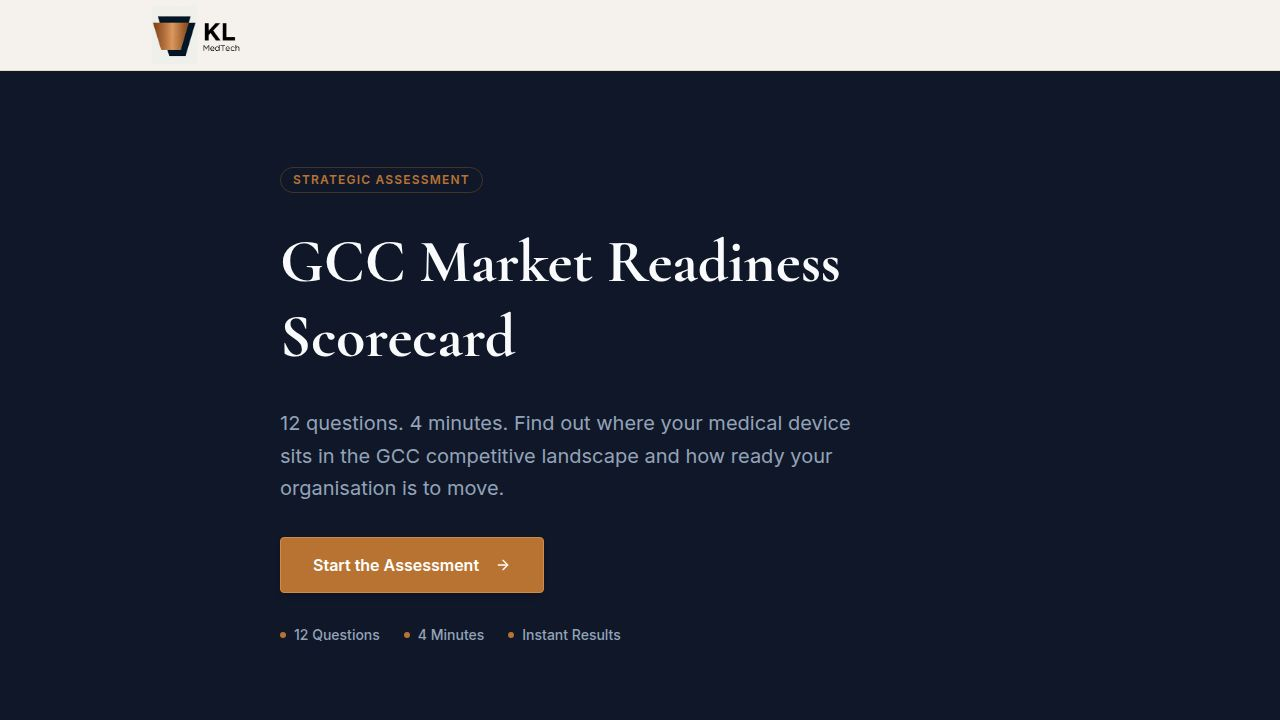
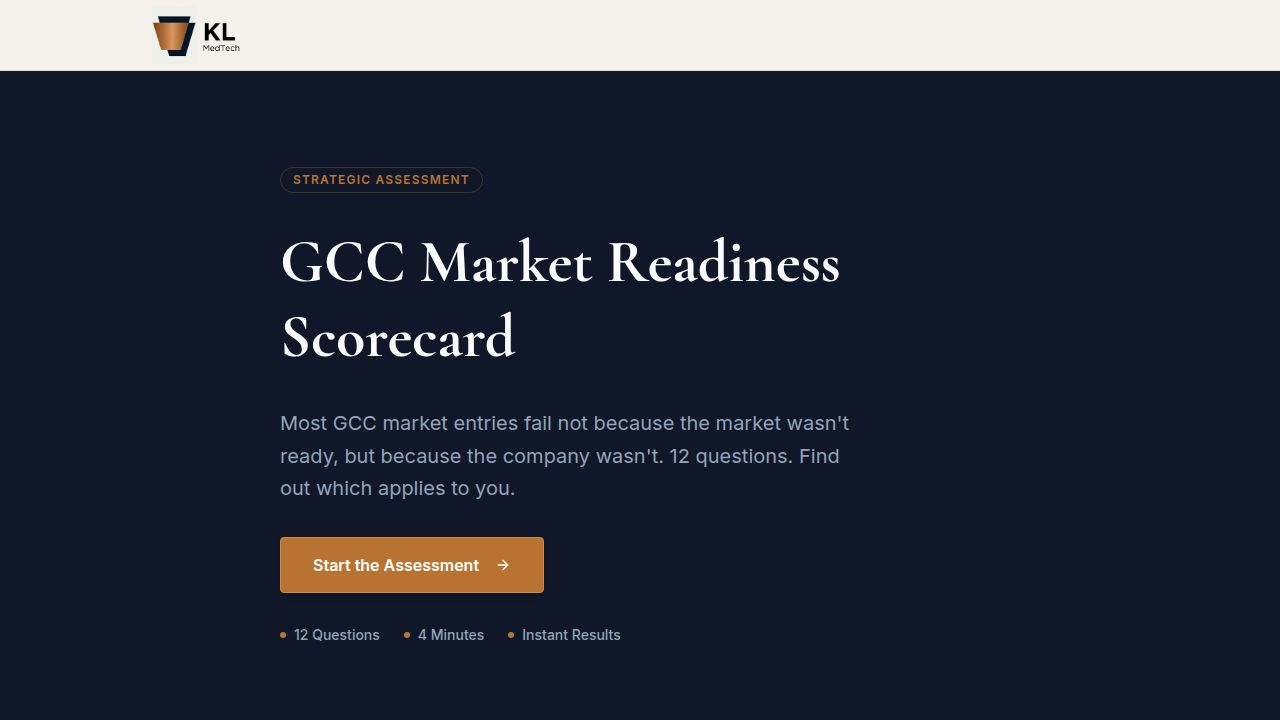
Update scorecard — gate-first flow, UTM tracking, Calendly pre-fill, fixed OG tags

Changed region(s): [[0.2188, 0.5806, 0.6875, 0.7028]]

diff --git a/scorecard/index.html b/scorecard/index.html
@@ -3,21 +3,25 @@
   <head>
     <meta charset="UTF-8" />
     <meta name="viewport" content="width=device-width, initial-scale=1.0, maximum-scale=1" />
-    <title>GCC Market Readiness Scorecard — KL MedTech</title>
+    <title>GCC Market Readiness Scorecard — KL Advisory</title>
     <meta name="description" content="12 questions. 4 minutes. Find out where your medical device sits in the GCC competitive landscape and how ready your organisation is to move." />
 
     <!-- Open Graph / LinkedIn -->
     <meta property="og:type" content="website" />
     <meta property="og:url" content="https://kl-advisory.ae/scorecard/" />
-    <meta property="og:title" content="GCC Market Readiness Scorecard — KL MedTech" />
+    <meta property="og:title" content="GCC Market Readiness Scorecard — KL Advisory" />
     <meta property="og:description" content="12 questions. 4 minutes. Find out where your medical device sits in the GCC competitive landscape and how ready your organisation is to move." />
     <meta property="og:image" content="https://kl-advisory.ae/scorecard/og-image.jpg" />
-    <meta property="og:site_name" content="KL MedTech" />
+    <meta property="og:image:width" content="1200" />
+    <meta property="og:image:height" content="630" />
+    <meta property="og:image:type" content="image/jpeg" />
+    <meta property="og:site_name" content="KL Advisory" />
 
     <!-- Twitter / X -->
-    <meta name="twitter:card" content="summary" />
-    <meta name="twitter:title" content="GCC Market Readiness Scorecard — KL MedTech" />
+    <meta name="twitter:card" content="summary_large_image" />
+    <meta name="twitter:title" content="GCC Market Readiness Scorecard — KL Advisory" />
     <meta name="twitter:description" content="12 questions. 4 minutes. Find out where your medical device sits in the GCC competitive landscape and how ready your organisation is to move." />
+    <meta name="twitter:image" content="https://kl-advisory.ae/scorecard/og-image.jpg" />
 
     <link rel="icon" type="image/x-icon" href="/scorecard/favicon.ico" />
     <script>
@@ -36,7 +40,7 @@
     <link rel="preconnect" href="https://fonts.googleapis.com">
     <link rel="preconnect" href="https://fonts.gstatic.com" crossorigin>
     <link href="https://fonts.googleapis.com/css2?family=Cormorant+Garamond:ital,wght@0,400;0,500;0,600;1,400;1,500&family=Karla:wght@300;400;500;600&display=swap" rel="stylesheet">
-    <script type="module" crossorigin src="/scorecard/assets/index-DavE1ZFu.js"></script>
+    <script type="module" crossorigin src="/scorecard/assets/index-CxbCxgGa.js"></script>
     <link rel="stylesheet" crossorigin href="/scorecard/assets/index-q0i4vr3q.css">
   </head>
   <body>